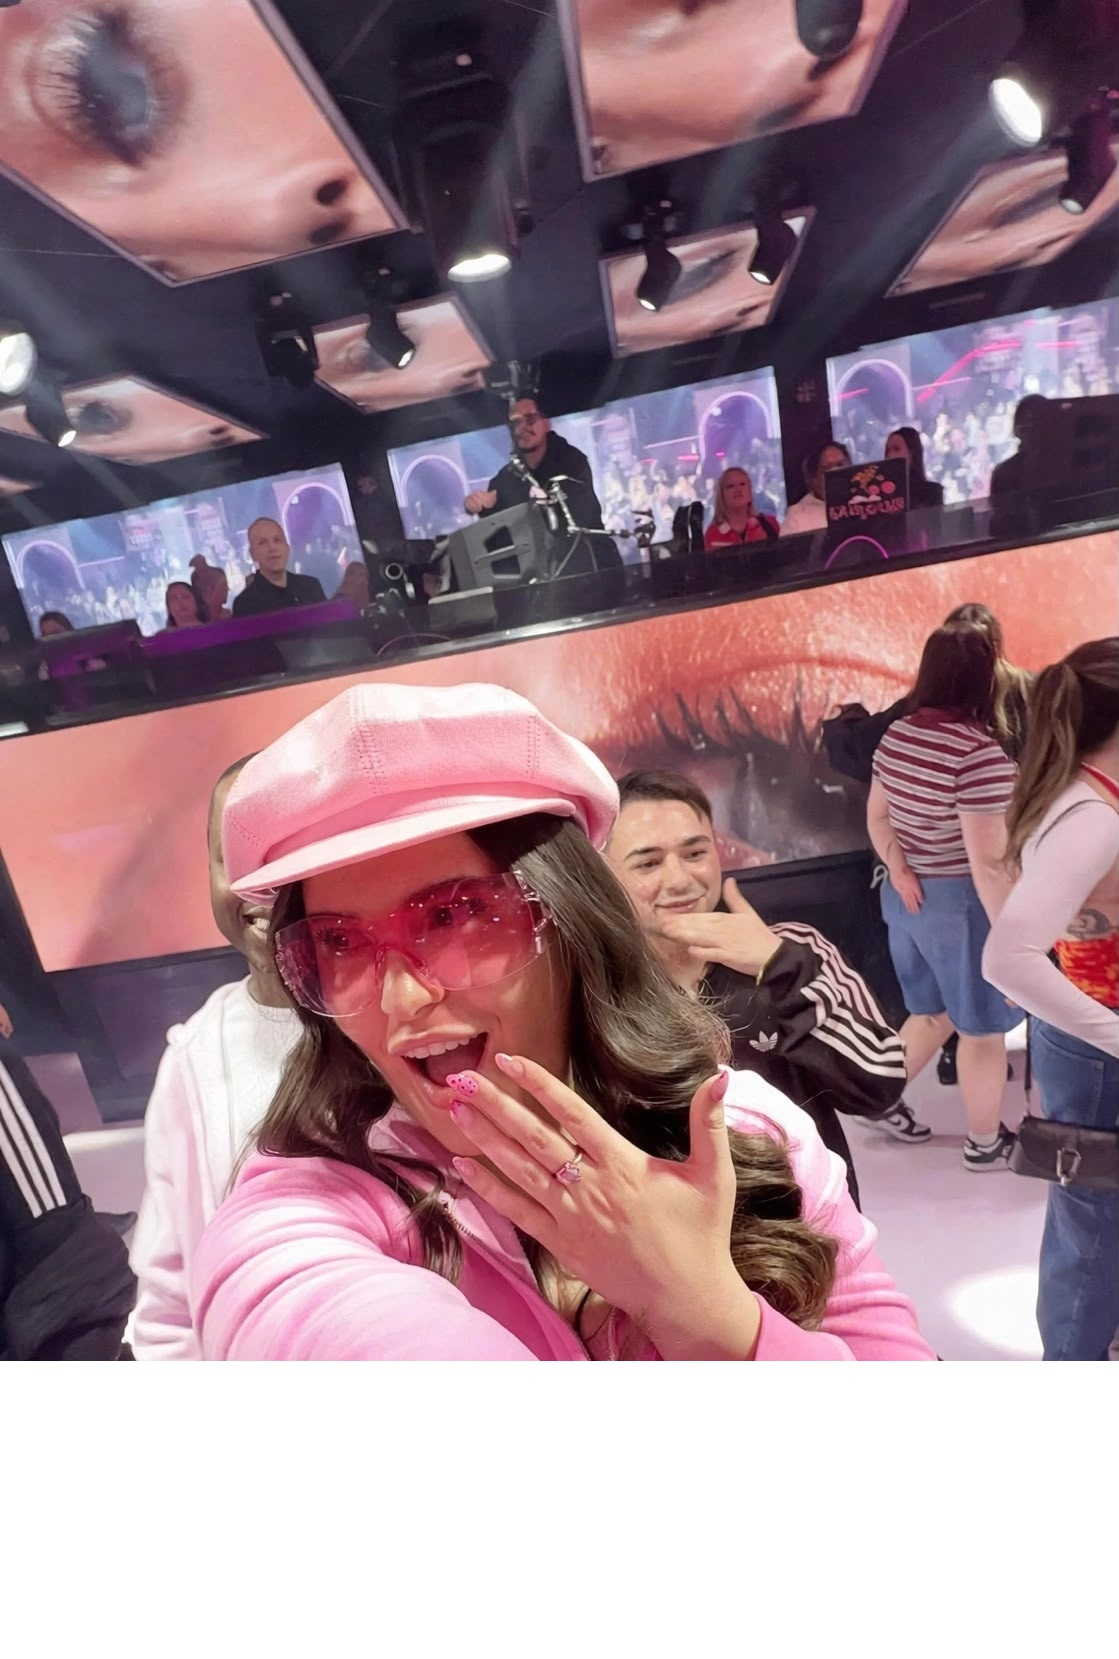
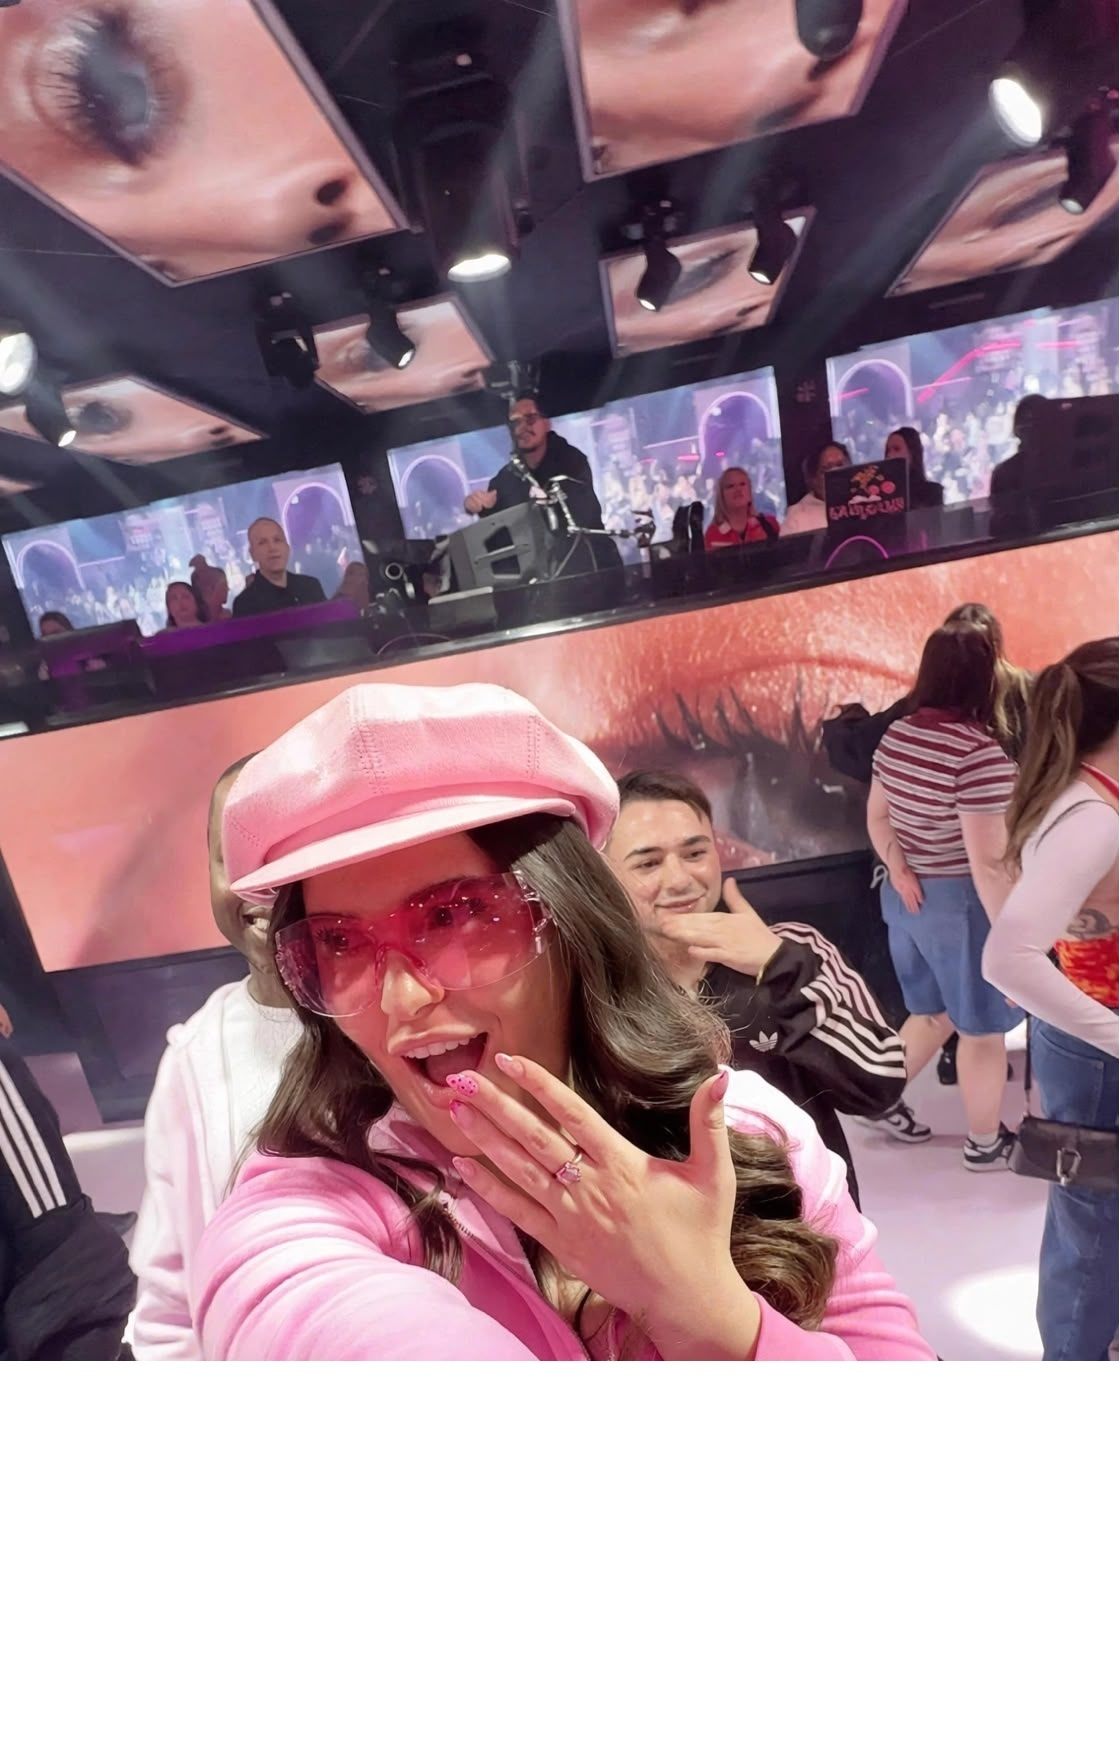
fix: changed text on influencer button

diff --git a/smylady-web/src/views/InfluencerClubPage.tsx b/smylady-web/src/views/InfluencerClubPage.tsx
@@ -273,12 +273,14 @@ export default function InfluencerClubPage() {
           <p className="mb-4 text-[13px] font-black uppercase tracking-wide text-[#e9548c]">
             {t('influencer.eyebrow', { defaultValue: 'Share Your Party' })}
           </p>
-          <h1 className="text-[40px] sm:text-[56px] md:text-[68px] font-black leading-[1.05] tracking-tight">
-            {t('influencer.heroHeadline1', { defaultValue: 'Create moments.' })}
-            <br />
-            {t('influencer.heroHeadline3', { defaultValue: 'Share Your Party.' })}
-            <br />
-            <span className={cn(GRADIENT, 'bg-clip-text text-transparent')}>
+          <h1 className="text-4xl md:text-5xl font-bold leading-[1.05] tracking-tight">
+            <span className="block">
+              {t('influencer.heroHeadline1', { defaultValue: 'Create moments.' })}
+            </span>
+            <span className="block">
+              {t('influencer.heroHeadline3', { defaultValue: 'Share Your Party.' })}
+            </span>
+            <span className={cn(GRADIENT, 'block bg-clip-text text-transparent')}>
               {t('influencer.heroHeadline4', { defaultValue: 'Influencer Club.' })}
             </span>
           </h1>
